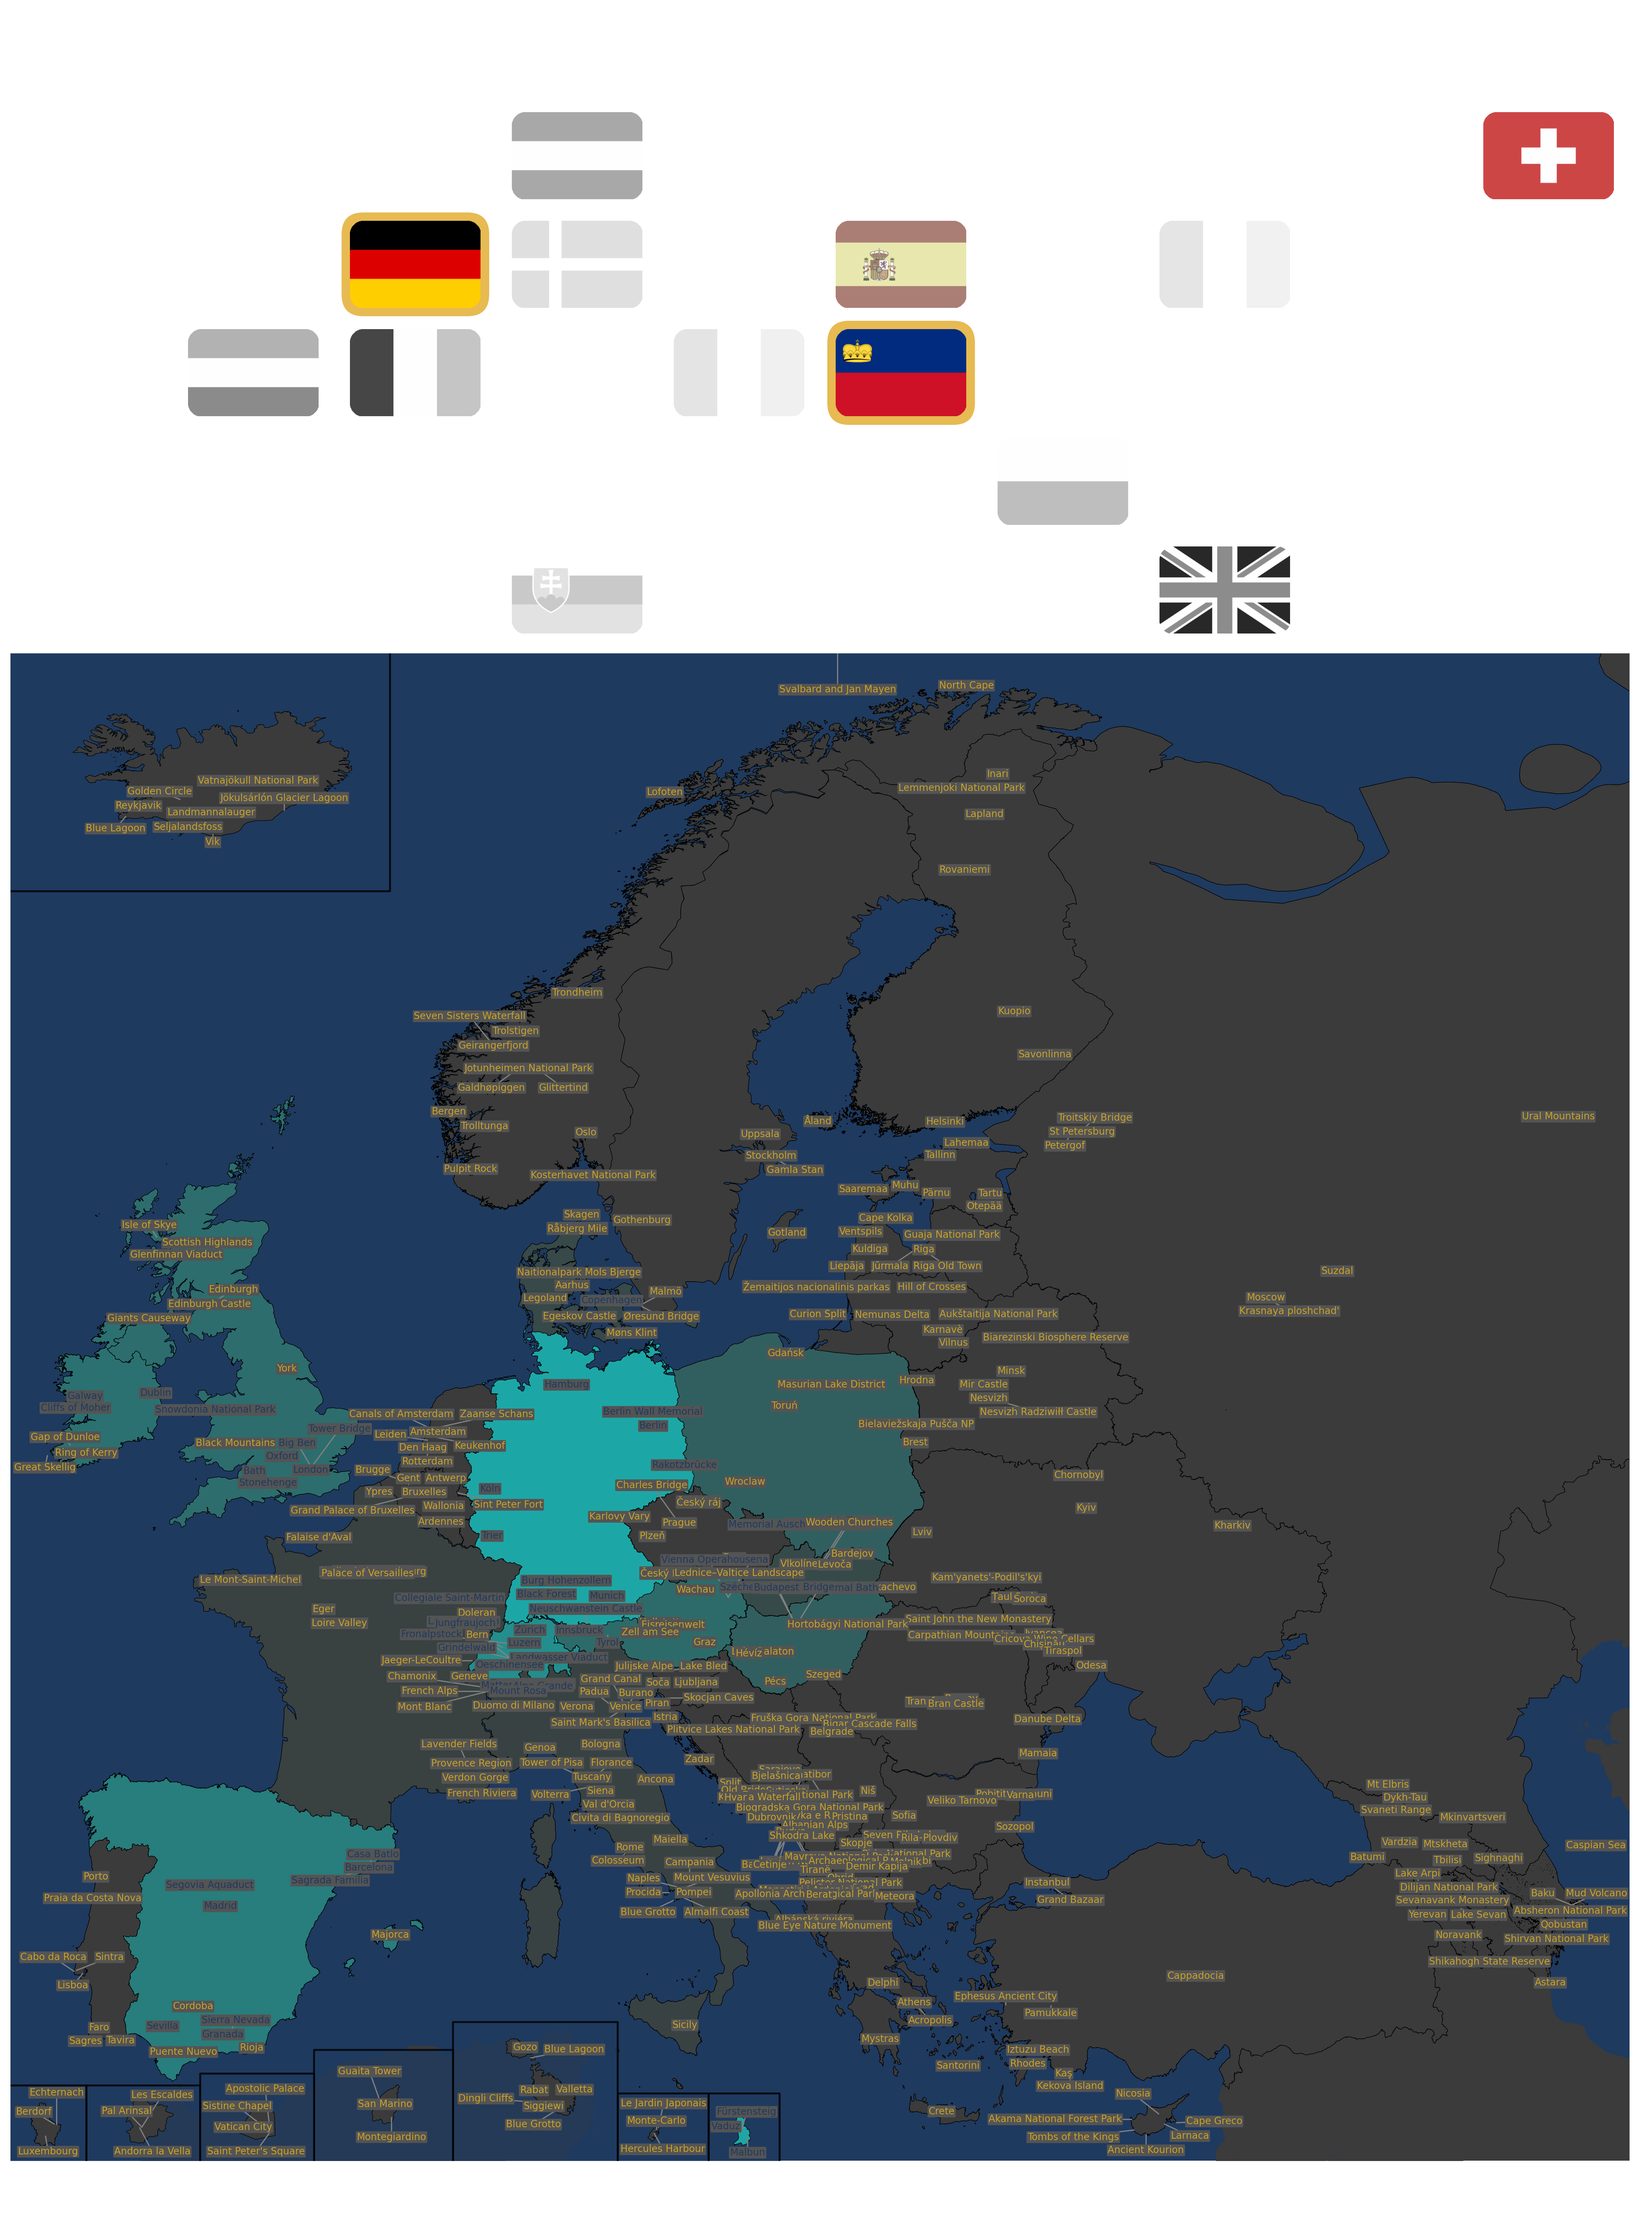
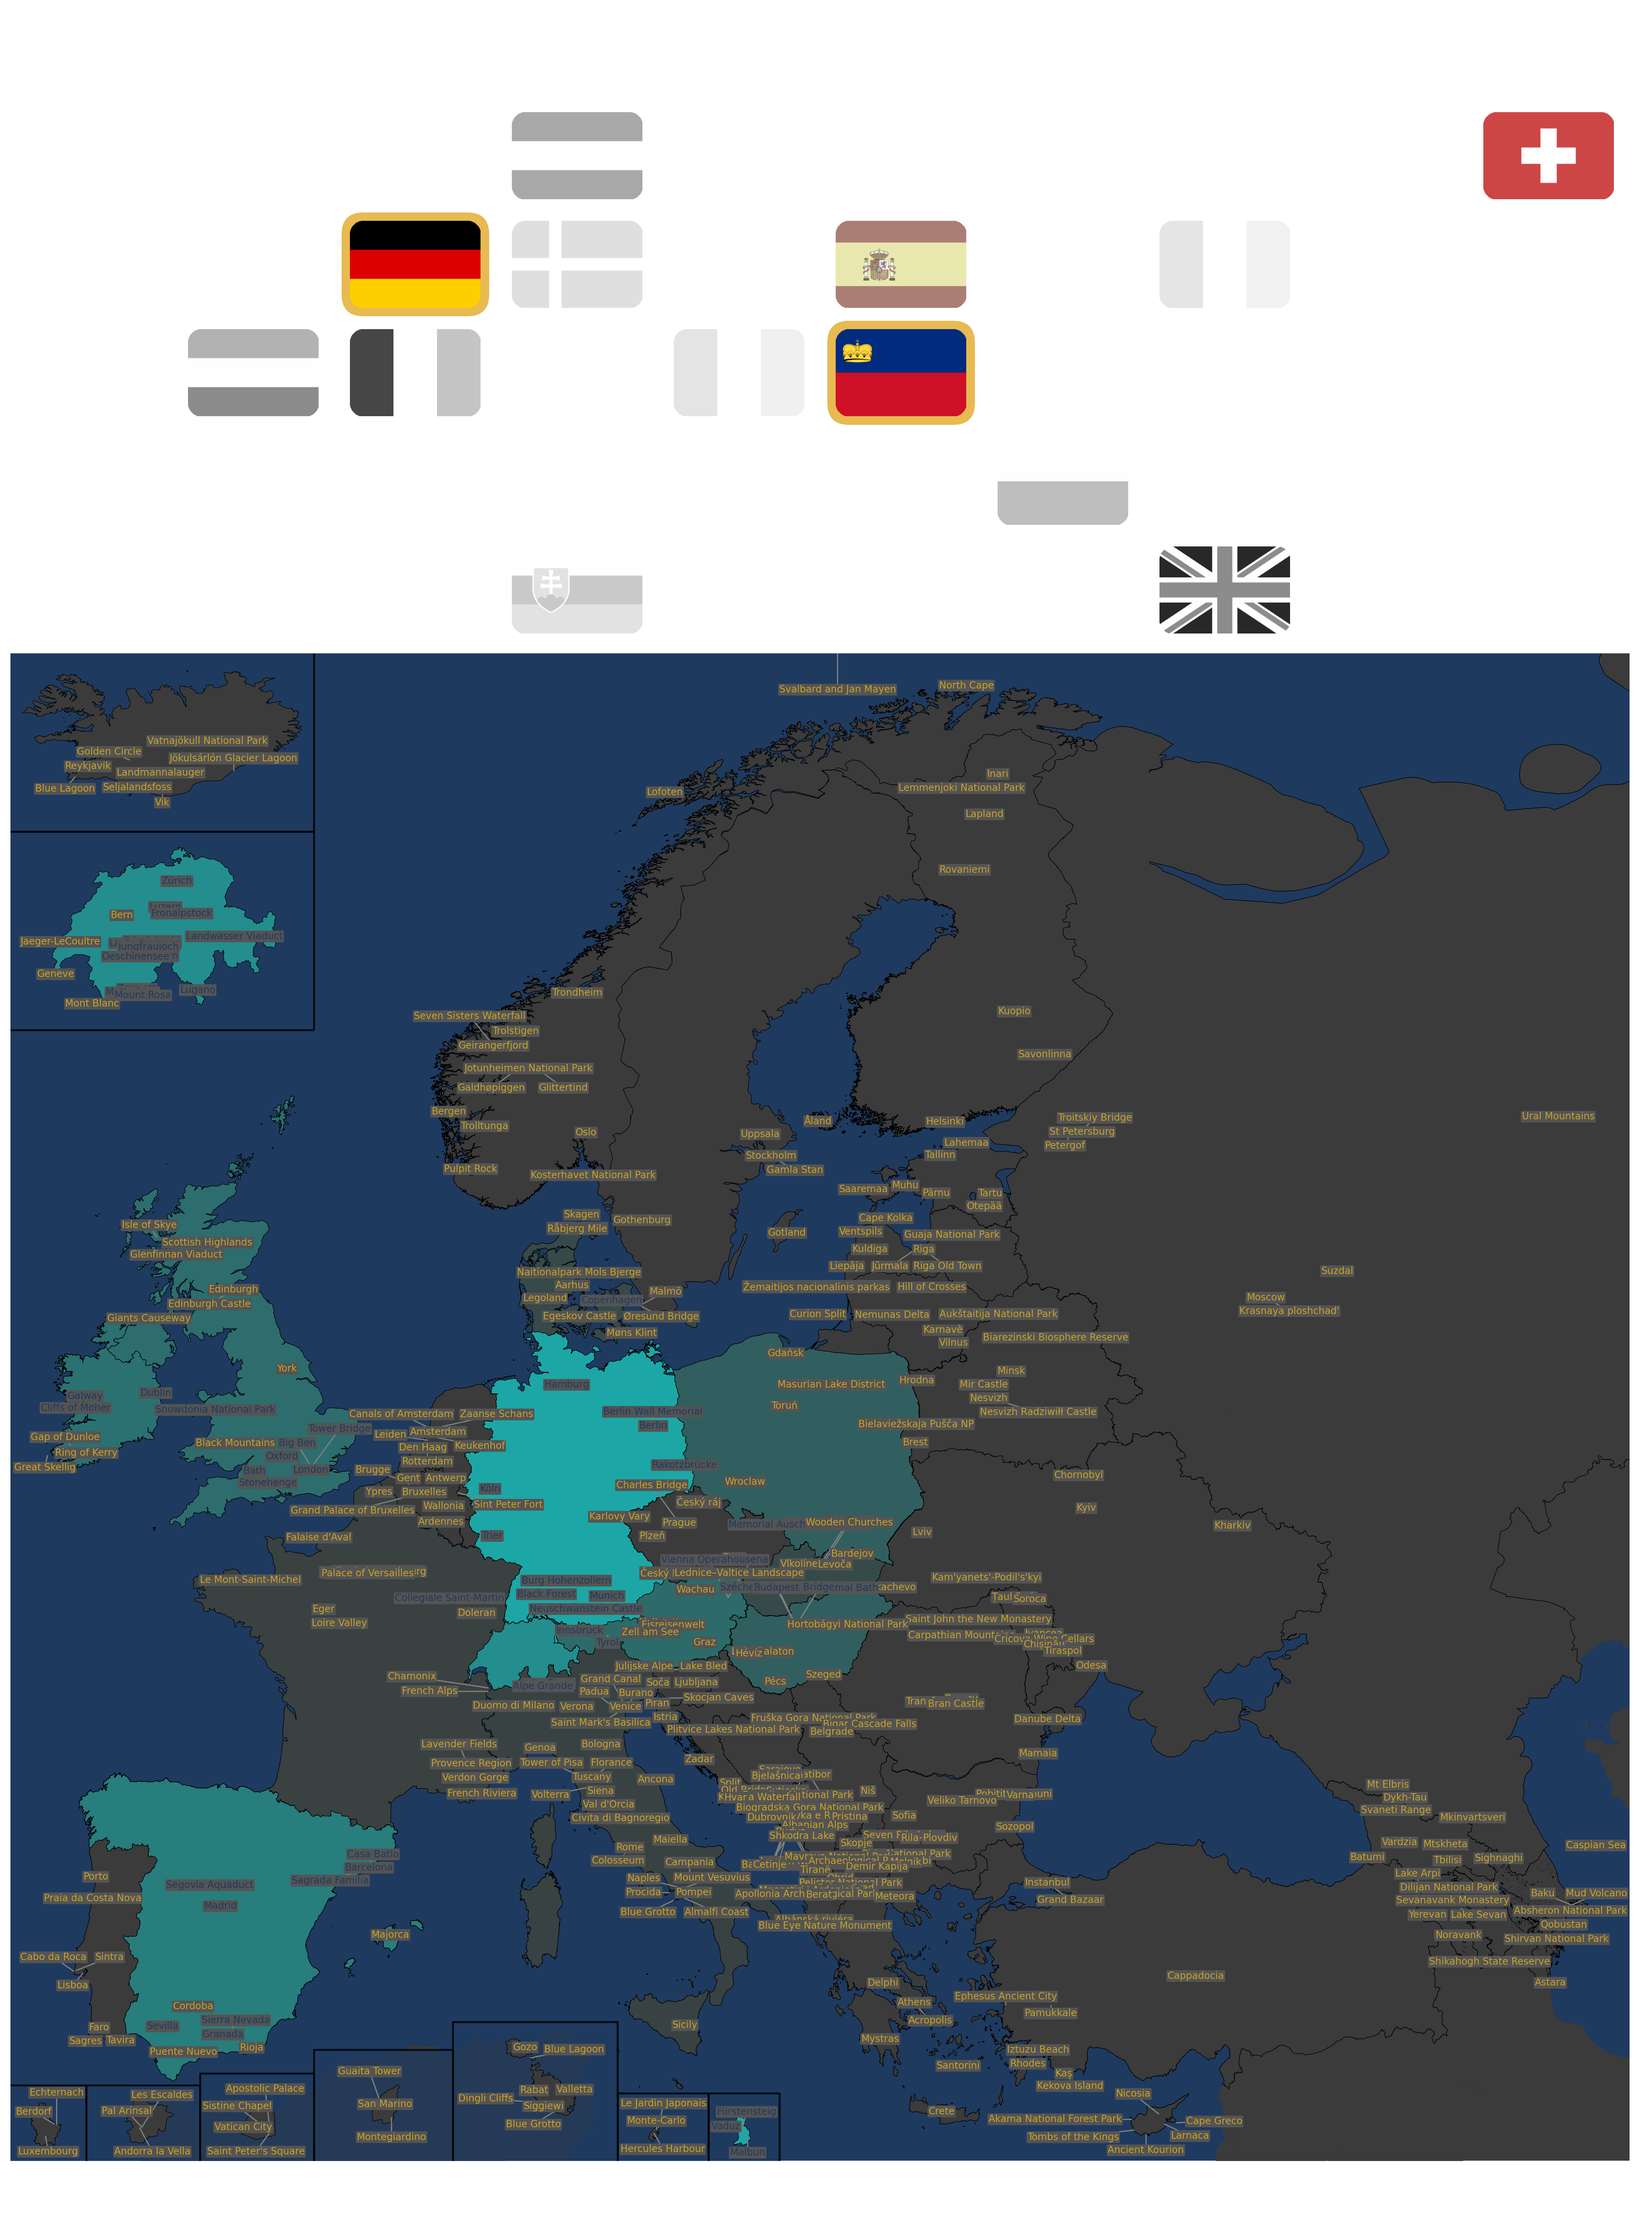
update CH

Changed region(s): [[0.0, 0.2802, 0.2185, 0.467], [0.2185, 0.716, 0.3433, 0.7783]]

diff --git a/plotting/plotting_manager.py b/plotting/plotting_manager.py
@@ -171,7 +171,7 @@ class PlotManager:
                 )
             )
 
-            if submap["Name"] == "MC":
+            if submap["Name"] == "CH":
                 print(submap_points["geometry"])
 
             # Write transformed geometries back into working copy
